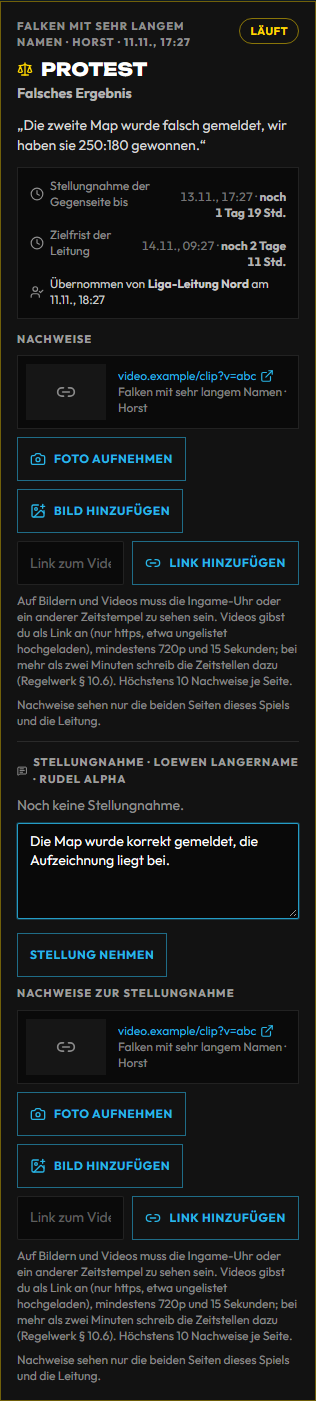
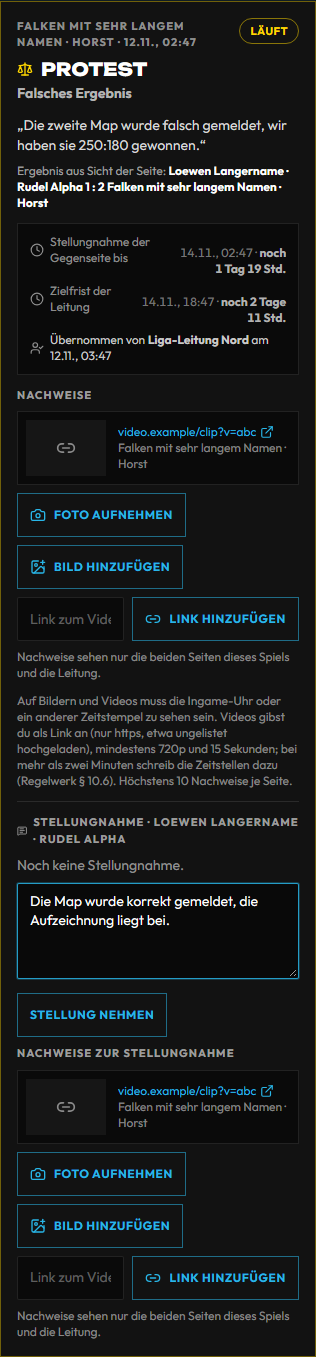
docs: Vertrag und Handbuch zur Restrunde E.2 – Einspruch, Aufmerksamkeit, offener Vorfall (#1619)

diff --git a/docs/handbuch/liga-captains.md b/docs/handbuch/liga-captains.md
@@ -67,8 +67,8 @@ Den Stand siehst du auf der Ligaseite und unter **Teams → Deine Teams**:
 | **Spielberechtigung im Blick:** Unter eurem Co-Team steht, wer spielen darf und was fehlt (Geburtsdatum, Spiel-ID, Plattform, Wartezeit). Neue Spieler warten nach Spieltag 1 sieben Tage. Wechsel aus einem anderen Co-Team der Season gehen nur per Transfer, den die Teamleitung beantragt; danach wartet die Person immer sieben Tage, auch vor Spieltag 1. | **Teams → Deine Teams** | vor dem Spiel |
 | **Beanstandung oder Protest:** **Stimmt nicht** bzw. **Problem melden**. Die Art ergibt sich von selbst: vor der Bestätigung eine **Beanstandung** (das Spiel ruht), danach ein **Protest**. Grund antippen, begründen (mindestens zehn Zeichen), dann Nachweise hinzufügen. Nicht einfach mit anderen Maps bestätigen. Je Seite läuft ein Verfahren; ihr ergänzt es, statt ein zweites zu eröffnen. | Matchseite, Web | Beanstandung bis zur Bestätigung, Protest **48 Stunden ab der Bestätigung** (ruht in Sperrzeiten); später Matchchat mit **@leitung** |
 | **Stellung nehmen**, wenn die Gegenseite ein Verfahren eröffnet hat: Ihr seht Grund und Begründung und schreibt eure Sicht, auf Wunsch mit Nachweisen. | Matchseite, Karte des Verfahrens | **48 Stunden** ab der Benachrichtigung (ruht in Sperrzeiten); die Leitung kann verlängern |
-| **Einspruch** gegen die Entscheidung, eine Wertung kampflos oder eine Korrektur: einmal, mit Begründung. Es entscheidet eine andere Person, endgültig. | Matchseite, Karte des Verfahrens | **48 Stunden** ab der Entscheidung |
-| **MOSS-Datei hochladen**, wenn die Leitung sie anfordert: die ZIP unverändert, so wie MOSS sie geschrieben hat. Sehen können sie nur du, Captain und Vertreter deiner Seite und die Liga-Leitung. | Matchseite, Karte des Verfahrens → **MOSS-Datei (ZIP) hochladen** | **24 Stunden** ab der Anforderung |
+| **Einspruch** gegen die Entscheidung, eine Wertung kampflos oder eine Korrektur: Knopf **Einspruch einlegen**, einmal, mit Begründung. Es entscheidet eine andere Person, endgültig. | Matchseite, Karte des Verfahrens | **48 Stunden** ab der Entscheidung |
+| **MOSS-Datei hochladen**, wenn die Leitung sie anfordert: die ZIP unverändert, so wie MOSS sie geschrieben hat (bis 200 MB). Sehen können sie nur du, Captain und Vertreter deiner Seite und die Liga-Leitung. | Matchseite, Karte des Verfahrens → **MOSS-Datei (ZIP) hochladen** | **24 Stunden** ab der Anforderung |
 
 **Problem melden, Schritt für Schritt** – links das geführte Formular, rechts die Karte, wie die Gegenseite sie sieht:
 

diff --git a/docs/LIGA.md b/docs/LIGA.md
@@ -3027,6 +3027,20 @@ Aufbewahrung ebenfalls (Nr. 136); diese Sperre ergänzt E.3, das Feld dafür ist
   Stellungnahme braucht den Bezug. `notified_immediately` und `moss_requests` bleiben der eigenen Seite und der Leitung.
 - **MOSS-ZIP:** `type: "file"`, nur am Bezug `moss`, eigene Grenze `MAX_MOSS_UPLOAD_MB` (Vorgabe 200, andere Dokumente bleiben bei 50 MB), gestreamt auf die Platte. Geprüft wird das Inhaltsverzeichnis, ohne zu
   entpacken (`match_proofs.check_zip`); gespeichert wird unverändert mit `sha256`.
+- **Am einzelnen Spiel:** `league_page` gibt je Spiel `contested` (nur bei festem Ergebnis), die Ligaseite zeigt „in Klärung“ an derselben
+  Stelle wie D.5 die Map in Klärung (`in_clarification`); der TV-Baum schreibt es statt des Stands, die PDF-Tabelle hängt es an den Namen.
+- **„Braucht Aufmerksamkeit“:** Ein offenes Verfahren an einem Spiel mit festem Ergebnis (`counts`, Einspruch) ist ein Fall der Art
+  `procedure` mit `action: "open"` („Zum Spiel“); `match_disputes.open_procedure_rows` liest dafür ohne `league_procedures`.
+- **Listen der Leitung:** `GET /matches/{id}`, `GET /tournaments/{id}/matches-v2` und der Baum kürzen Verfahren für Beteiligte mit
+  Liga-Recht auf `at`, `id`, `kind`, `state` (`league_procedures.strip_for_involved`).
+- **Einspruch in der Oberfläche:** `procedure_form.appealable` (`{type, ref_id, until}`) für Kampflos-Wertung und Korrektur, an der
+  Karte für den Protestentscheid. Kam die Korrektur als Entscheidung eines Verfahrens, gibt es nur den Einspruch an dessen Karte.
+- **Offener Vorfall** (Fachentscheidung 12.11.): `POST /matches/{id}/forfeit`, „nicht erschienen“ bestätigen und „beide nicht
+  erschienen“ antworten mit 409, solange ein Vorfall nicht `agreed`, `decided` oder `withdrawn` ist (`match_proof_refs.has_open_incident`,
+  nur gelesen).
+- **Index:** `matches_v2.disputes.state` (sparse, `procedure_state`) für den Zeit-Job.
+- **Offen, eigenes Issue:** Das Bracket-Bild für Discord (`discord_bracket.py`) und die Teilen-Karte eines Ergebnisses
+  (`result_share.py`) zeigen Ergebnisse, die angefochten sein können, ohne Hinweis.
 - **App (#2173, Folgepunkt):** `mobile/` ist unverändert. Die App meldet weiter über `/dispute` mit `category`; Art, Pflichtfragen,
   Ergänzen, Stellungnahme, Einspruch, MOSS und die Markierung „in Klärung“ fehlen dort noch.
 

diff --git a/docs/handbuch/liga.md b/docs/handbuch/liga.md
@@ -1130,11 +1130,14 @@ Staffeln, die noch **je Map** aufstellen (ältere Seasons oder **Wer gespielt ha
 - **Entscheiden**: immer mit **Begründung** (mindestens zehn Zeichen, geht an beide Seiten). **Ergebnis bleibt** schließt
   das Verfahren; **Ergebnis ändern** öffnet das Ergebnis-Fenster, die Begründung steht dort als Grund der Korrektur.
   Wer am Spiel selbst beteiligt ist, entscheidet nicht.
+- **Erst der Vorfall, dann die Wertung**: Solange an einem Spiel ein Vorfall offen ist, lassen sich **kampflos** und
+  **nicht erschienen** nicht werten – die Seite sagt es mit einem Satz. Entscheidet zuerst den Vorfall.
 - **Einspruch**: Gegen die Entscheidung, eine Wertung kampflos oder eine Korrektur kann eine Seite innerhalb der
   Einspruchsfrist (Vorgabe 48 Stunden) einmal Einspruch einlegen. Darüber entscheidet **eine andere Person** als bei der
   ersten Entscheidung – auch der Superadmin nicht über die eigene. Bis dahin gilt die erste Entscheidung weiter.
 - **Tabelle und TV**: Mit **Zählt vorläufig** (Vorgabe) bleibt ein Ergebnis mit laufendem Protest in der Tabelle; Spiel
-  und Tabellenzeile tragen „in Klärung“. Mit **Zählt bis zur Entscheidung nicht** fällt das Spiel so lange heraus.
+  und Tabellenzeile tragen „in Klärung“ – auf der Ligaseite, im TV und in der Tabelle als PDF. Unter **Braucht
+  Aufmerksamkeit** steht der Fall mit **Zum Spiel**. Mit **Zählt bis zur Entscheidung nicht** fällt das Spiel so lange heraus.
 - **Einstellen**: Season → **Proteste** → **Fristen, Gründe und Tabelle**. Speichern gilt sofort in allen nicht
   gesperrten Staffeln; laufende Verfahren behalten ihre Fristen. Die vier Grundgründe bleiben in der Liste, damit auch
   die App melden kann.
